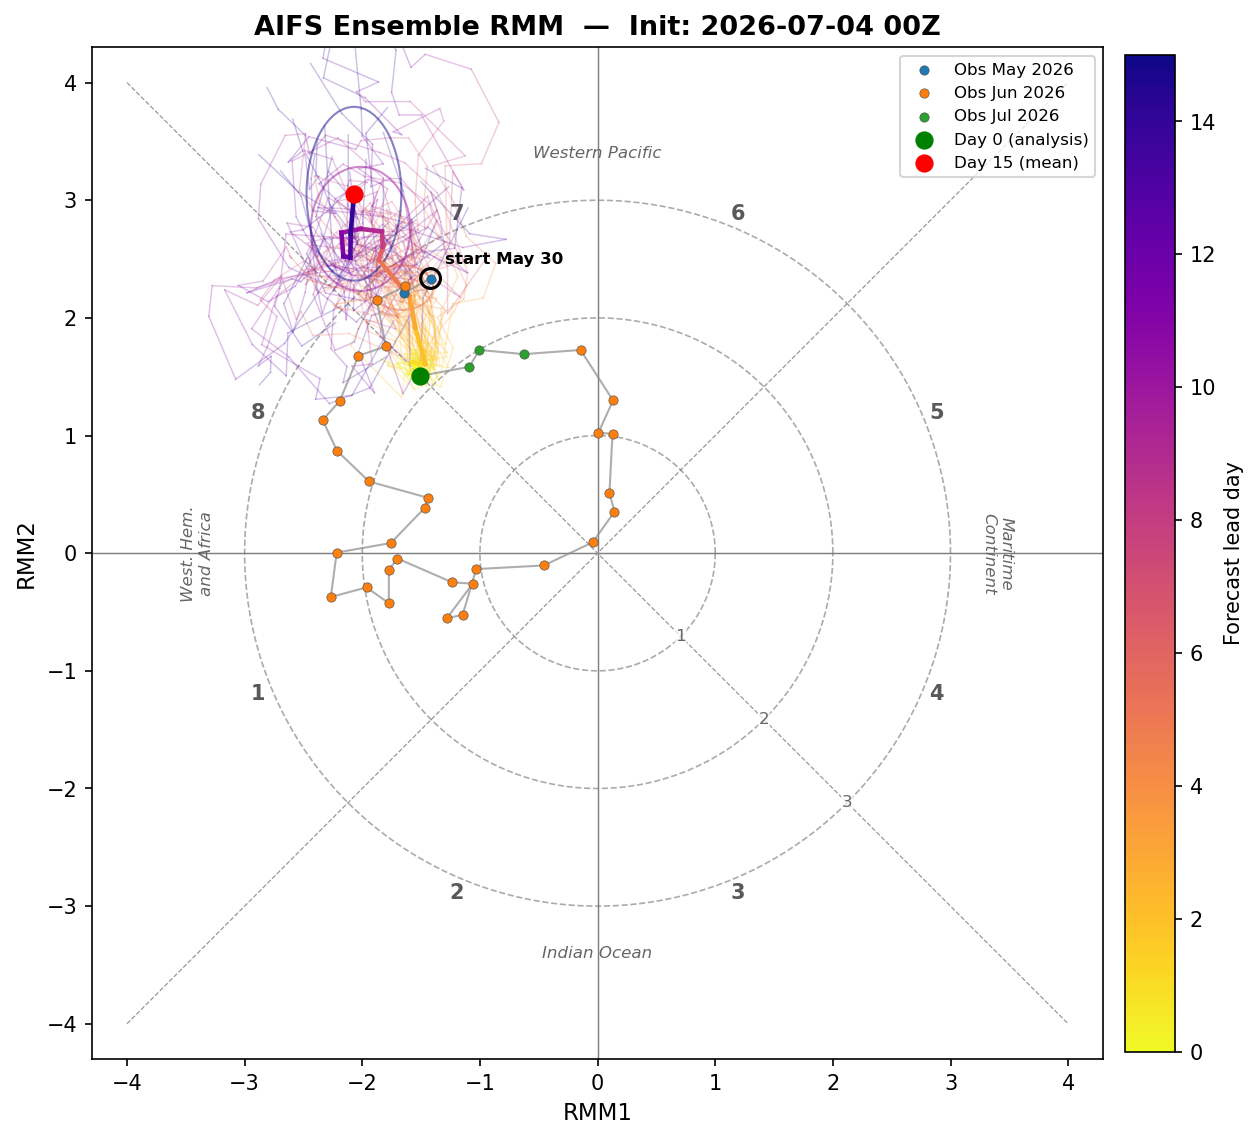
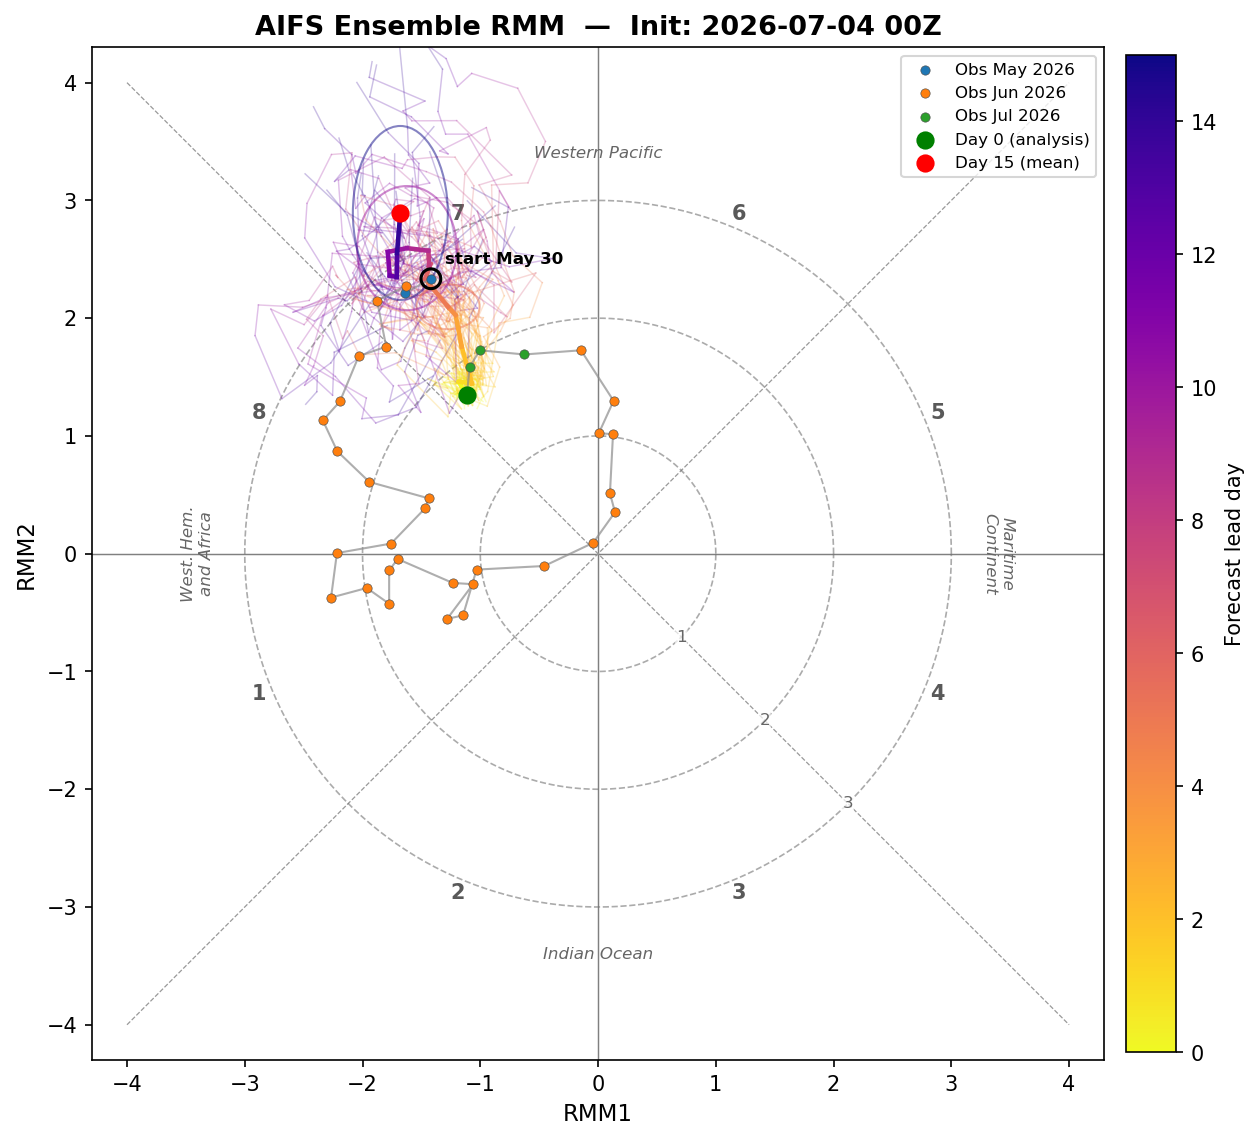
RMM: regenerate 20260704 00z plot with the fresh 120-day filter map
Recomputed with the refreshed (Jun-27) low-freq map: day-0 amplitude 2.13 -> 1.75 (the stale May-31 map was inflating the MJO amplitude ~22% by leaving the ENSO signal unremoved). obs_history 00z point updated (idempotent de-dup).

diff --git a/mjo.html b/mjo.html
@@ -76,7 +76,7 @@
   radial distance (rings at 1, 2, 3). Observed track is recent ERA5/AIFS analysis.</p>
     <p class="lede" style="margin:0.5rem 0 1.2rem">Latest init: <strong>2026-07-04 00Z</strong>. Drag the slider to step through successive forecast runs (oldest → latest) and watch the predicted MJO track evolve.</p>
   <iframe class="anim-embed" src="sst_anim.html?embed=1&amp;base=assets&amp;manifest=mjo/rmm_manifest.json&amp;region=mjo" title="AIFS-ENS RMM forecast — successive runs animation" loading="lazy"></iframe>
-  <p class="meta">Updated 2026-07-04 08:14Z · Auto-generated from the AIFS-ENS open-data
+  <p class="meta">Updated 2026-07-04 14:29Z · Auto-generated from the AIFS-ENS open-data
   feed. Methodology: NOAA CPC / Wheeler &amp; Hendon (2004), EOFs from NOAA OLR +
   NCEP wind with the 120-day low-frequency filter removed.</p>
 </main>
